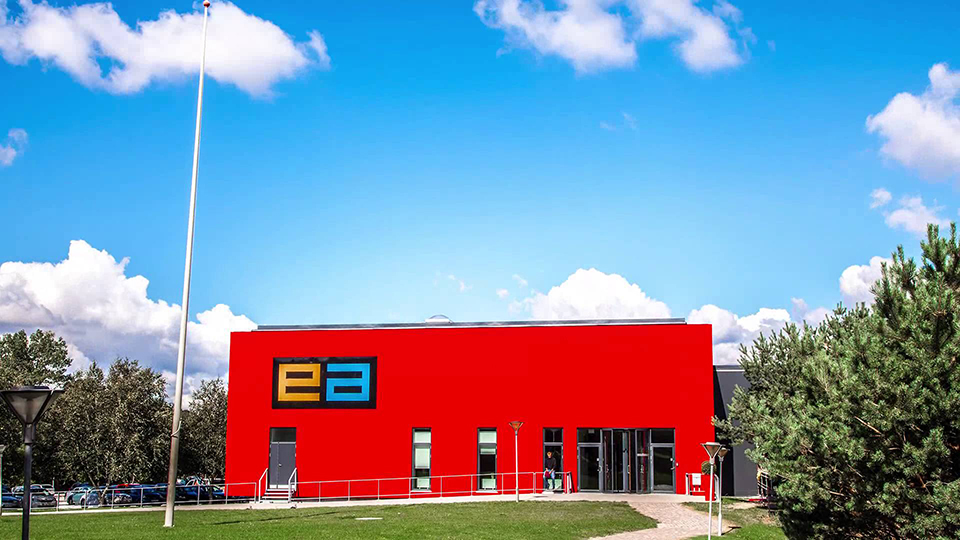
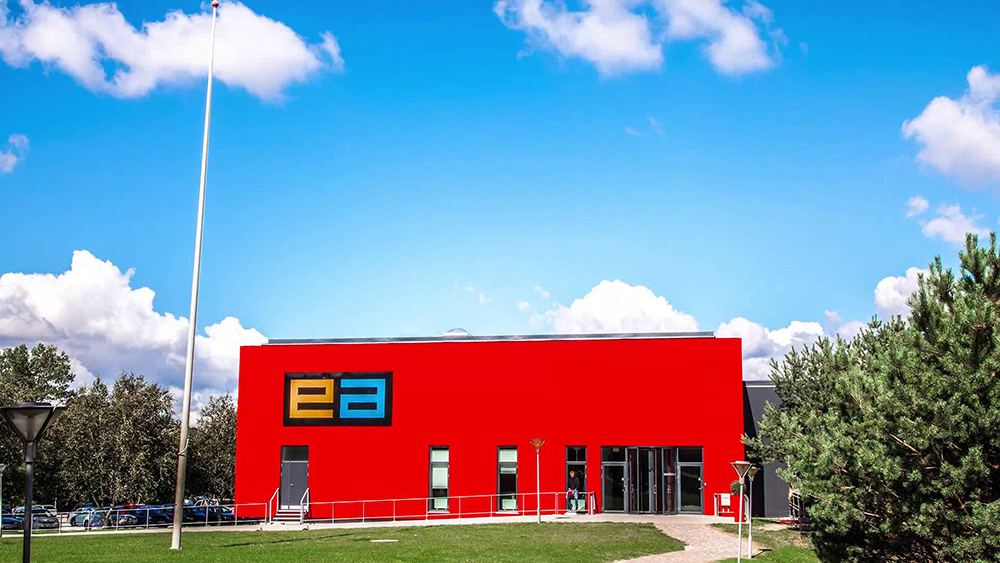
background plus strap
now slingshot, strap is now brown and added background

diff --git a/Slingshot.java b/Slingshot.java
@@ -11,8 +11,10 @@ import greenfoot.*;  // (World, Actor, GreenfootImage, Greenfoot and MouseInfo)
 public class Slingshot extends Actor
 {
     // the images of the slingshot!!
-    GreenfootImage sshot1 = new GreenfootImage("Sshotwstrap.gif");
-    GreenfootImage sshot2 = new GreenfootImage("Sshot.gif");
+    //GreenfootImage sshot1 = new GreenfootImage("Sshotwstrap.gif");
+    //GreenfootImage sshot2 = new GreenfootImage("Sshot.gif");
+    GreenfootImage sshot1 = new GreenfootImage("slingshot.png");
+    GreenfootImage sshot2 = new GreenfootImage("slingshot.png");
     Pellet pellet; // the pellet that gets shot
     MouseInfo m; // need the mouse info....
     Strap s1, s2; // the straps of the slingshot
@@ -202,8 +204,8 @@ public class Slingshot extends Actor
         s1 = new Strap();
         s2 = new Strap();
         t = (TestWorld) getWorld();
-        getWorld().addObject(s1,getX() +7,getY()-17); // the order in which these are added matters
-        getWorld().addObject(s2,getX() -8,getY()-17); // when it comes to which gets drawn first
+        getWorld().addObject(s1,getX() +30,getY()-85); // the order in which these are added matters
+        getWorld().addObject(s2,getX() -20,getY()-85); // when it comes to which gets drawn first
         setImage(sshot1);
         getWorld().setPaintOrder(Pellet.class,Slingshot.class); // draw the pellet on top of the sling shot
         initialized = true;

diff --git a/TestWorld.java b/TestWorld.java
@@ -36,12 +36,12 @@ public class TestWorld  extends World
     {    
         // Create a new world with 600x400 cells with a cell size of 1x1 pixels.
         
-        super(960, 540, 1);
-        //GreenfootImage bg = new GreenfootImage("bg.jpg");
-        //setBackground(bg);
+        super(1000, 563, 1);
+        GreenfootImage bg = new GreenfootImage("bg.jpg");
+        setBackground(bg);
         setPaintOrder(Slingshot.class,Pellet.class,Strap.class);
         addPellets();
-        addObject(s,130,350 - s.getImage().getHeight()/2);
+        addObject(s,130,550 - s.getImage().getHeight()/2);
        
     }
     

diff --git a/Strap.java b/Strap.java
@@ -45,7 +45,7 @@ public class Strap extends Actor
             //xpts[4] = w/2-size + dx;           ypts[4] = h/2+size + dy;// - 2*size;
         }
         // draw the thing!
-        img.setColor(Color.RED);
+        img.setColor(new Color(59,36,11));
         img.fillPolygon(xpts,ypts,4);
         img.setColor(Color.BLACK); // black outline!
         img.drawPolygon(xpts,ypts,4);
